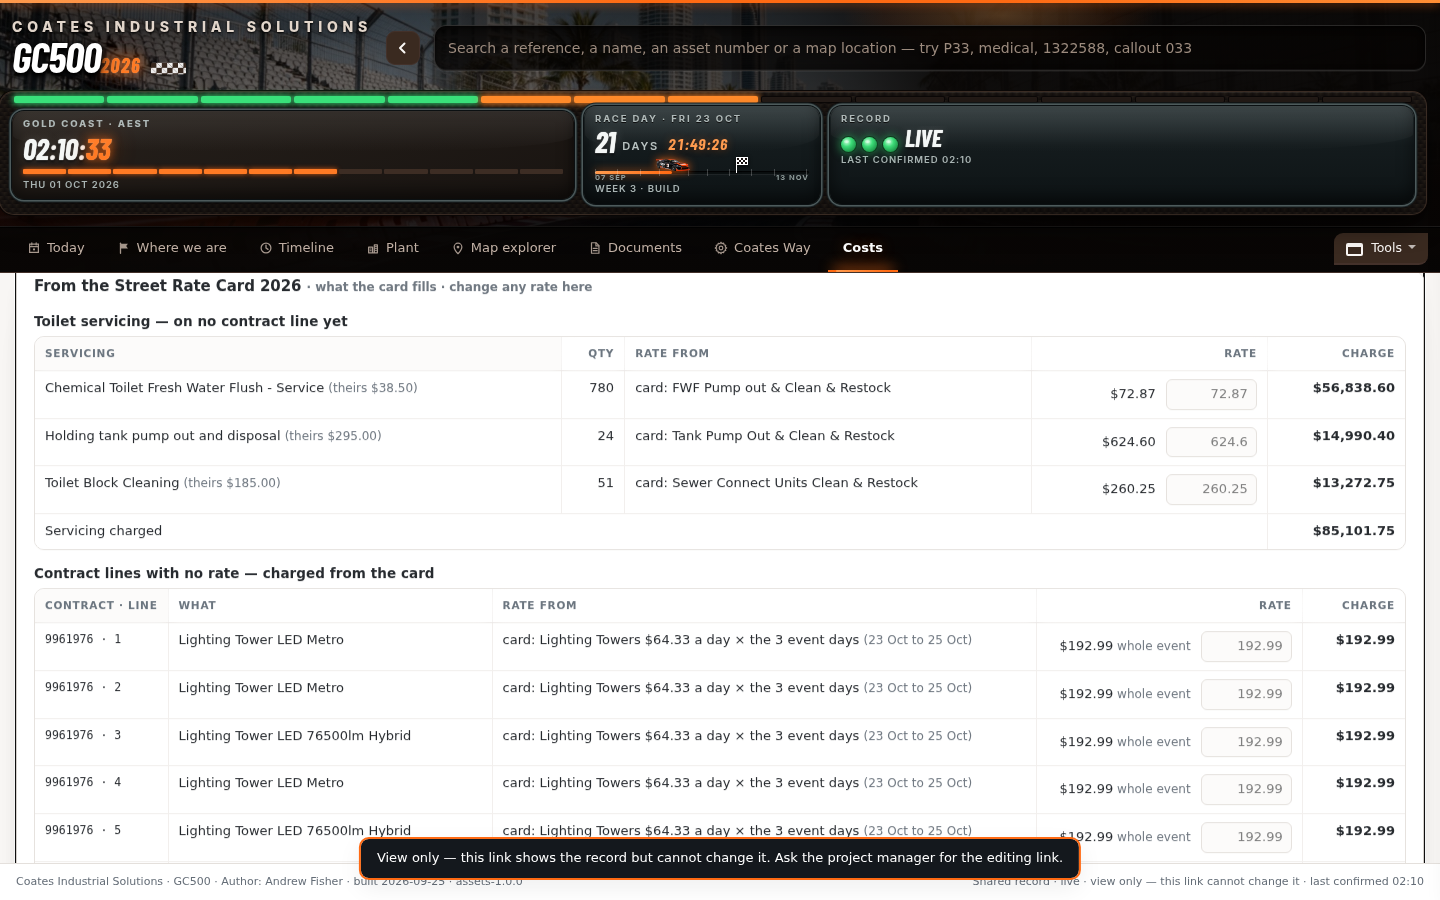
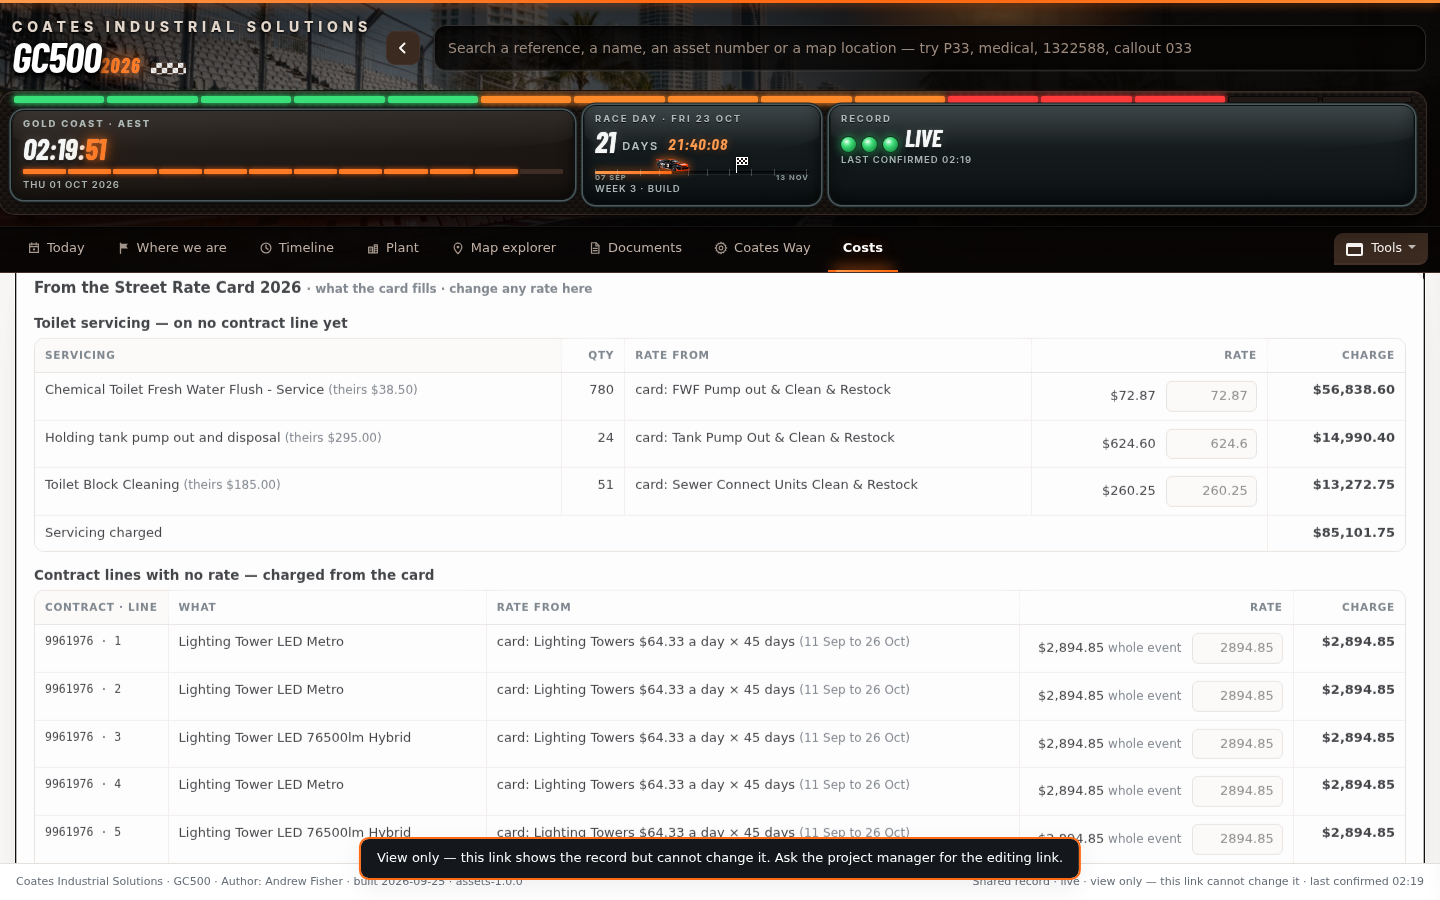
v7.50 READY TO UPLOAD: corrects the live v7.49 (generators and towers over the three race days; MEAD forklift by its day rate); live revenue overstated by about 66,000. Board and rules: never upload a draft not marked ready
Claude-Session: https://claude.ai/code/session_01BQwk5iUoysfHRmoPUtnkBd

diff --git a/03_GC500_Delivery_Control/v7.50_generators_over_the_event_forklifts_by_the_day_DRAFT/card750_src.js b/03_GC500_Delivery_Control/v7.50_generators_over_the_event_forklifts_by_the_day_DRAFT/card750_src.js
@@ -1,22 +1,10 @@
-/* v7.49 - THE CARD FILLS THE GAPS. Andrew Fisher, 30 Sep 2026, with the Street Rate Card 2026: "Can you not use the
- rate card to fill in the gaps. We can edit the hire rate later on if needed."
-
- 1. The servicing on Event Portables' quote Q6844 is on no contract line, and was "not charged". It is now charged
- at the card's pump-out rates (FWF $72.87, tank $624.60, sewer-connect clean $260.25) on Event Portables' own
- quantities, and says it is on no contract line yet.
- 2. Generators, light towers and forklifts with no rate on the contract take the card's daily on-site rate
- (Andrew, 1 Oct 2026: "If a generator price is not there you go for the lower, so 70 kVA becomes the 60 kVA. If
- the client asks for a 60 kVA and we supplied larger, they get the price of a 60 kVA."). The size is what was
- asked for (the reference's own type), else what the line says; a size the card has no line for takes the next
- size down. Forklifts charge by the day from when they go in, as every forklift line does. A generator or a tower
- is charged once, for the three event days only (Brenden Meek, Branch Manager: "Forklifts, VMS and water barriers
- are charged for from when they go in. Everything else is only charged for over the event.") - never for its
- days on site, which is how long it is there, not what the customer pays for.
- 3. Every rate can be typed over on the Costs tab; an empty box puts the card's back.
- The seven toilet lines and the building/container lines that had no rate are settled already, by the project
- manager's answers of 1 Oct 2026 (waste tanks included in toilet-block hire; contract 9968929 for Coates' own use)
- - those decisions stand and are never overridden here. The contract's own rule runs first, always: a rate on
- the line, or a decision, wins. Anything typed here wins over the card; an empty box puts the card back. */
+/* v7.50 - THE CARD FILLS THE GAPS, CORRECTED. The v7.49 that went live on 1 Oct 2026 charged a generator or a light
+ tower with no contract rate for its days on site (GN01: 28 days, $5,404) and charged MEAD's 2.5 t forklift, whose
+ Rate 1 is the whole 8-day hire written as one figure, by the day again ($11,865.60). Both against the branch's rule.
+ The project manager, 1 Oct 2026: "Forklift go by its day rate. Have our own correct logic on correct pricing. You're
+ correct about MEAD." Brenden Meek (Branch Manager): "Forklifts, VMS and water barriers are charged for from when
+ they go in. Everything else is only charged for over the event." This is the same code as v7.49 with those two
+ corrections; every name and rule below is unchanged so a rate typed on the live page keeps working. */
 const CARD748 = {
  card: 'Street Rate Card 2026',
 };

diff --git a/03_GC500_Delivery_Control/v7.50_generators_over_the_event_forklifts_by_the_day_DRAFT/evidence/practice_tests.js b/03_GC500_Delivery_Control/v7.50_generators_over_the_event_forklifts_by_the_day_DRAFT/evidence/practice_tests.js
@@ -27,11 +27,11 @@ const figures = p => p.evaluate(() => { const M = moneySummary(), t = M.streams.
  await p.evaluate(() => { const i = document.querySelector('[data-lr748="c|9961976|10"]'); i.value = ''; i.dispatchEvent(new Event('change', {bubbles: true})); }); await p.waitForTimeout(800);
  R.uiCleared = await p.evaluate(() => ({stored: (S.lineRates || {})['c|9961976|10'] || null, charge: contractCharge(ONHIRE_ROWS.find(x => x.rental_contract === '9961976' && x.line === 10)).amount}));
  await p.evaluate(() => document.getElementById('card748').scrollIntoView()); await p.waitForTimeout(400);
- await p.screenshot({path: path.join(out, 'shot748_costs_desktop.png')});
+ await p.screenshot({path: path.join(out, 'shot750_costs_desktop.png')});
  R.errors = s.errors; R.blockedWrites = s.counts.blocked; await s.browser.close();
  s = await open({pageFile: build, mobile: true, W: 390, H: 844, dpr: 2}); await ready(s.page);
  await s.page.evaluate(() => go('costs')); await s.page.waitForTimeout(1500); await s.page.evaluate(() => document.getElementById('card748').scrollIntoView()); await s.page.waitForTimeout(400);
- await s.page.screenshot({path: path.join(out, 'shot748_costs_phone.png')}); R.phoneErrors = s.errors;
+ await s.page.screenshot({path: path.join(out, 'shot750_costs_phone.png')}); R.phoneErrors = s.errors;
  R.phoneOverflow = await s.page.evaluate(() => document.documentElement.scrollWidth - document.documentElement.clientWidth); await s.browser.close();
  fs.writeFileSync(path.join(out, 'practice_results.json'), JSON.stringify(R, null, 1));
  console.log(JSON.stringify({before: R.before, after: R.after, filled: R.filled.map(f => [f.line, f.what, f.rate, f.charge]), servicing: R.servicing && R.servicing.total, typed: R.typed, decidedStands: R.decidedStands, mead: R.mead, ui: {shown: R.ui.shown, boxes: R.ui.boxes}, uiTyped: R.uiTyped, uiCleared: R.uiCleared, errors: R.errors, phoneErrors: R.phoneErrors, phoneOverflow: R.phoneOverflow}, null, 1));

diff --git a/03_GC500_Delivery_Control/v7.50_generators_over_the_event_forklifts_by_the_day_DRAFT/patch_v750.py b/03_GC500_Delivery_Control/v7.50_generators_over_the_event_forklifts_by_the_day_DRAFT/patch_v750.py
@@ -1,0 +1,23 @@
+#!/usr/bin/env python3
+"""v7.50 - generators and towers over the event only; a forklift by its day rate. Corrects the v7.49 that went live on
+1 Oct 2026 (Andrew Fisher, 1 Oct 2026: "Forklift go by its day rate. Have our own correct logic on correct pricing.
+You're correct about MEAD"; the branch's rule from Brenden Meek: everything but forklifts, VMS and water barriers is
+charged over the event only). Replaces the v7.49 code block on the live page with the corrected one; nothing else moves.
+    python3 patch_v750.py <page.html>"""
+import os, sys
+here = os.path.dirname(os.path.abspath(__file__))
+p = sys.argv[1]
+t = open(p, encoding='utf-8').read(); bom = t.startswith(''); t = t.lstrip('')
+if 'function forkliftWholeHire748(' in t: sys.exit('v7.50 already applied')
+if 'function card748Html(' not in t or 'function text747What(' not in t: sys.exit('needs the live v7.49 (card748Html) and v7.48')
+JS = open(os.path.join(here, 'card750_src.js'), encoding='utf-8').read()
+START = '/* v7.49 - THE CARD FILLS THE GAPS.'
+END = '\n/* v7.49 - the contract\'s own rule, as it was */\nfunction contractCharge_747(r){'
+if t.count(START) != 1: sys.exit('start marker: expected once, found %d' % t.count(START))
+if t.count(END) != 1: sys.exit('end marker: expected once, found %d' % t.count(END))
+i = t.index(START); j = t.index(END)
+if j < i: sys.exit('markers out of order')
+old = t[i:j]
+if 'function days748(' not in old or 'function card748Html(' not in old: sys.exit('the v7.49 block is not where it was expected')
+t = t[:i] + JS + t[j:]
+open(p, 'w', encoding='utf-8').write(('' if bom else '') + t); print('ok', p, 'replaced', len(old), 'chars with', len(JS))

diff --git a/03_GC500_Delivery_Control/STATUS.md b/03_GC500_Delivery_Control/STATUS.md
@@ -7,7 +7,8 @@ question. Newest first in each section. Times AEST.
 
 | version | what | live | by |
 |---|---|---|---|
-| **v7.47** | (Codex; seen on the live page by Claude 1 Oct 2026, not yet recorded in the repo) Andrew's confirmed answers of 1 Oct 2026 applied: VMS 22 boards; fence removal and V gates included in the per-metre price; KINP six waste tanks included in toilet-block hire; contract 9968929 lines for Coates' own use. Live page 8,398,298 bytes. | 1 Oct 2026 | Codex |
+| **v7.49** | (uploaded by Codex 1 Oct 2026 from Claude's draft folders before two corrections landed; live page 8,418,622 bytes) v7.48 Text it + v7.49 card fills the gaps. **OVERSTATES REVENUE by about $66,000** (generators charged for days on site; MEAD forklift charged 8 times over) — **v7.50 corrects it: upload it first.** | 1 Oct 2026 | Codex |
+| v7.47 | (Codex; seen on the live page by Claude 1 Oct 2026, not yet recorded in the repo) Andrew's confirmed answers of 1 Oct 2026 applied: VMS 22 boards; fence removal and V gates included in the per-metre price; KINP six waste tanks included in toilet-block hire; contract 9968929 lines for Coates' own use. Live page 8,398,298 bytes. | 1 Oct 2026 | Codex |
 | v7.45 | Monthly financial control on Costs: explicit actual-hours/cost review, labour outlook, billing months and Finance journal proposals. 70 model checks; 38/38 desktop and phone; both sweeps passed. Verified live byte for byte; no record edits or ledger posting. Author: Andrew Fisher. | 30 Sep 2026 22:17 | Codex |
 | v7.44 | Add sub-hired gear in the drawer/register; show existing supplier asset numbers throughout. Tested build verified live byte for byte; no record or charge changes. Author: Andrew Fisher. | 30 Sep 2026 21:53 | Codex |
 | v7.43 | the drawer shows what is relevant (no accessories on generators, sub-hired says so first, id generator letters only) | 29 Sep 2026 18:18 | Claude |
@@ -24,8 +25,9 @@ The live page's own proof: `toolchain/fetch_live.sh` then compare with the relea
 
 | version | what | who | since |
 |---|---|---|---|
-| v7.49 | The card fills the gaps (Andrew, 30 Sep: "use the rate card to fill in the gaps, we can edit the hire rate later"): Q6844 toilet servicing charged at the card's pump-out rates ($85,101.75; Toilets stream −$49,483 → +$35,619); generators, towers and forklifts with no rate charged from the card by Andrew's 1 Oct generator rule (asked-for size; no card line → next size down) and Brenden Meek's days rule (forklifts from when they go in; generators and towers the three race days only) — 31 lines, $46,953; lines with no rate 33 → 2; every rate editable on Costs (synced `lineRates`); Codex's v7.47 decisions (tanks included, 9968929 own use) always stand. Revenue $434,258 → $566,312. **Built and tested, NOT live** (no edit key in Claude's container) — `v7.49_card_fills_the_gaps_DRAFT/README.md`, build together with v7.48. Author: Andrew Fisher. | Claude | 1 Oct 2026 |
-| v7.48 | Text it says what it is and where it goes (first claimed as v7.47; renumbered because Codex's v7.47 went live first): reference, what it is, GPS (master plan wins), Maps link, pit lane way in, inside three plain texts (the old text was ~700 characters; the service refuses over 480). **Built and tested, NOT live** (no edit key in Claude's container) — `v7.48_text_it_says_what_and_where_DRAFT/README.md`. Author: Andrew Fisher. | Claude | 30 Sep 2026 |
+| **v7.50** | **READY TO UPLOAD — URGENT.** Generators and towers over the three race days only (Brenden Meek's rule); MEAD 9968726 line 1 forklift by its day rate ($1,483.20, not $11,865.60) (Andrew, 1 Oct). Live revenue $622,222 → $555,930. Built and tested, both sweeps pass; no edit key in Claude's container. `v7.50_generators_over_the_event_forklifts_by_the_day_DRAFT/README.md`. Author: Andrew Fisher. | Claude | 1 Oct 2026 |
+| v7.49 | LIVE (see above) — the folder's final source is the corrected one; the live page has the earlier one. Superseded by v7.50. The card fills the gaps (Andrew, 30 Sep: "use the rate card to fill in the gaps, we can edit the hire rate later"): Q6844 toilet servicing charged at the card's pump-out rates ($85,101.75; Toilets stream −$49,483 → +$35,619); generators, towers and forklifts with no rate charged from the card by Andrew's 1 Oct generator rule (asked-for size; no card line → next size down) and Brenden Meek's days rule (forklifts from when they go in; generators and towers the three race days only) — 31 lines, $46,953; lines with no rate 33 → 2; every rate editable on Costs (synced `lineRates`); Codex's v7.47 decisions (tanks included, 9968929 own use) always stand. Revenue $434,258 → $566,312. **Built and tested, NOT live** (no edit key in Claude's container) — `v7.49_card_fills_the_gaps_DRAFT/README.md`, build together with v7.48. Author: Andrew Fisher. | Claude | 1 Oct 2026 |
+| v7.48 | LIVE (uploaded by Codex with v7.49, 1 Oct 2026). Text it says what it is and where it goes (first claimed as v7.47; renumbered because Codex's v7.47 went live first): reference, what it is, GPS (master plan wins), Maps link, pit lane way in, inside three plain texts (the old text was ~700 characters; the service refuses over 480). **Built and tested, NOT live** (no edit key in Claude's container) — `v7.48_text_it_says_what_and_where_DRAFT/README.md`. Author: Andrew Fisher. | Claude | 30 Sep 2026 |
 | v7.46 | Apply GN20's approved 315 kVA install basis from Andrew's uploaded Rate Card 2026 (1).xlsx. Preserve hire/demob and other references; verify, test and release. Author: Andrew Fisher. | Codex | 30 Sep 2026 22:21 |
 
 Andrew directed that updates be finished, tested and released. v7.45 went live on
@@ -41,6 +43,8 @@ that branch holds both agents' work. Codex: before claiming, also read the board
 land there).
 
 Claim a line here and push it BEFORE you start. Clear it when the release is live.
+**A `_DRAFT` folder is uploaded only when its claim line here says READY TO UPLOAD.** A draft that is still moving is
+not ready, whatever its tests say (1 Oct 2026: v7.49 went live mid-correction).
 
 ## Waiting on Andrew
 

diff --git a/03_GC500_Delivery_Control/v7.50_generators_over_the_event_forklifts_by_the_day_DRAFT/README.md b/03_GC500_Delivery_Control/v7.50_generators_over_the_event_forklifts_by_the_day_DRAFT/README.md
@@ -1,0 +1,40 @@
+# v7.50 — Generators and towers over the event only; a forklift by its day rate (DRAFT: built and tested, NOT live)
+
+Author: Andrew Fisher · 1 Oct 2026
+
+**URGENT — the live v7.49 overstates revenue by about $66,000.** Codex put the v7.48 + v7.49 drafts live on 1 Oct 2026
+(live page 8,418,622 bytes) from the folders as they stood before two corrections were made. This release is those
+two corrections and nothing else. **Whoever has the edit key: build and upload this first.**
+
+`toolchain/build.sh v7.50 v7.50_generators_over_the_event_forklifts_by_the_day_DRAFT/patch_v750.py` — the patch
+replaces the v7.49 code block on the live page with the corrected one (same names, so rates typed on the live page
+keep working). It refuses on a page without the live v7.49, and refuses to run twice.
+
+## What was wrong on the live page, and the rule that fixes it
+
+| | live v7.49 | v7.50 | rule |
+|---|---|---|---|
+| Generators and light towers with no contract rate | card daily rate × days on site (GN01: 28 days, $5,404) | card daily rate × **the three race days** (GN01: $579) | Brenden Meek, Branch Manager: "Forklifts, VMS and water barriers are charged for from when they go in. Everything else is only charged for over the event." |
+| MEAD 9968726 line 1, 2.5 t RT forklift | Rate 1 $1,483.20 charged **by the day** × 8 = $11,865.60 | Rate 1 is the card's $185.40 × 8 days written as one figure → charged by the day rate, **$1,483.20** | Andrew, 1 Oct 2026: "Forklift go by its day rate. Have our own correct logic on correct pricing. You're correct about MEAD." |
+
+The rule is general and exact: a forklift line whose Rate 1 equals a card forklift day rate × the line's own days to the
+cent is the whole hire written as one figure. MEAD's 5 t line ($405 a day, no such match) is unchanged.
+
+## Figures (practice tests on the live record, read only)
+
+| | live v7.49 | v7.50 |
+|---|---|---|
+| Revenue | $622,221.63 | **$555,929.94** |
+| Contract charges | $343,307.43 | $277,015.74 |
+| Toilets and servicing charge | $154,194 | $154,194 (unchanged; +$35,619 against cost) |
+| Contract lines with no rate | 2 | 2 |
+
+Checks: MEAD line 1 = $1,483.20 with the reason on the line; GN01 = $579 (60 kVA × 3 days); GN20 = $1,415.34 (asked
+350 → 315 kVA × 3); a rate typed on a decided tank line stays ignored; a typed generator rate wins and clears back to
+the card; 0 page errors desktop and phone; no sideways scroll on the phone. Sweeps: `evidence/sweep_desktop.txt`,
+`evidence/sweep_phone.txt`.
+
+## Lesson recorded
+
+The other agent uploaded a draft folder while it was still moving. From now on a `_DRAFT` README says in its first
+line whether it is **ready to upload** or **still moving**, and STATUS.md says the same on the claim line.

diff --git a/AGENTS.md b/AGENTS.md
@@ -68,7 +68,9 @@ source: every release starts from the live page, applies a patch, and goes back 
 **Never leave work only on your own machine.** Whenever you stop — waiting on Andrew's approval, a question, or the
 end of a session — push the patch, its source and its tests in `vX.YY_<what>_DRAFT/` with a short README saying
 where it is up to. The other agent may be the one who finishes it, and can only do that from what is in the repo.
-Rename the folder to `_LIVE` when it goes live.
+Rename the folder to `_LIVE` when it goes live. **Never upload another agent's `_DRAFT` unless its claim line on
+`STATUS.md` says READY TO UPLOAD** — a draft may still be moving (1 Oct 2026: a draft went live mid-correction and
+overstated revenue by $66,000).
 
 **The other agent does not hear your chat with Andrew.** Anything he decides that matters beyond the one job — a
 rule, a price, a yes or no — goes into `STATUS.md` (or into the rules below if it is lasting), in his words.
@@ -105,6 +107,9 @@ marks as a draft, or anything risky to the record, waits for his yes.
   Never go back to one list per reference; that is what lost photographs.
 - **Sub-hired locations say so first** (v7.43) and carry no Coates contract, branch or Rental ID.
 - **What a reference is decides what its drawer offers** (v7.43): no accessories on generators, towers, barriers.
+- **A forklift goes by its day rate** (Andrew, 1 Oct 2026): where a contract line's Rate 1 is a card forklift day rate
+  x the line's days written as one figure (MEAD 9968726 line 1: $1,483.20 = $185.40 x 8 days), the line is charged by
+  the day rate, not that figure by the day again.
 - **How the branch charges** (Brenden Meek, Branch Manager - Relief, by email; Andrew said "remember", 1 Oct 2026):
   "Labour is charged per piece of equipment. Only hourly labour charged is over the event. Forklifts, VMS and
   water barriers are charged for from when they go in. Everything else is only charged for over the event."
